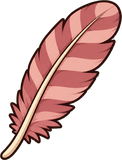
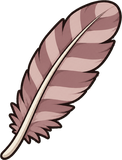
feat(ftb): feathers-only pickup burst from the lower hitbox, half-saturation feathers, wider vertical spread

Changed region(s): [[0.1967, 0.0, 0.9836, 0.875], [0.0984, 0.4375, 0.3197, 0.8438]]

diff --git a/games/find_the_bird/src/scenes/pickupParticles.ts b/games/find_the_bird/src/scenes/pickupParticles.ts
@@ -143,7 +143,7 @@ function featherDrift(scene: Phaser.Scene, px: number, py: number): Runner {
   const parts = Array.from({ length: 21 }, (_, i) => {
     const key = keys.length ? keys[i % keys.length] : 'pickup-feather';
     return {
-      ox: (r() * 220 - 110) * K, delay: r() * 0.2, sway: 1.5 + r() * 1.5, ph: r() * 6, oy: (r() * 50 - 40) * K,
+      ox: (r() * 220 - 110) * K, delay: r() * 0.25, sway: 1.5 + r() * 1.5, ph: r() * 6, oy: (r() * 150 - 100) * K, lift: 80 + r() * 90, drop: 240 + r() * 180,
       img: scene.add.image(px, py, key).setScrollFactor(1).setDepth(DEPTH + (i % 2)).setAlpha(0),
     };
   });
@@ -159,7 +159,7 @@ function featherDrift(scene: Phaser.Scene, px: number, py: number): Runner {
       for (const p of parts) {
         const tt = t - p.delay;
         if (tt < 0) { p.img.setAlpha(0); continue; }
-        const y = py + p.oy - 120 * tt * K + 330 * tt * tt * K;
+        const y = py + p.oy - p.lift * tt * K + p.drop * tt * tt * K;
         const x = px + p.ox * (1 + tt * 0.8) + 26 * K * Math.sin(p.ph + tt * p.sway * 3.14);
         p.img.setPosition(x, y);
         p.img.setRotation(0.5 * Math.sin(p.ph + tt * p.sway * 3.14));
@@ -215,5 +215,7 @@ export function playPickupParticles(scene: Phaser.Scene, kind: PickupFx, x: numb
 }
 
 export function pickRandomPickupFx(): PickupFx {
-  return PICKUP_FX_KINDS[Math.floor(Math.random() * PICKUP_FX_KINDS.length)];
+  // Batu 2026-09-16 device review: feathers only. The other kinds stay
+  // reachable from Settings > Debug.
+  return 'feathers';
 }

diff --git a/games/find_the_bird/src/scenes/GameScene.ts b/games/find_the_bird/src/scenes/GameScene.ts
@@ -3149,7 +3149,9 @@ export class GameScene extends Phaser.Scene {
     // pickup; Settings > Debug can pin one in harness builds).
     if (!prefersReducedMotion() && DEBUG_OVERRIDES.pickupFx !== 'none') {
       const kind = DEBUG_OVERRIDES.pickupFx === 'random' ? pickRandomPickupFx() : DEBUG_OVERRIDES.pickupFx;
-      playPickupParticles(this, kind, this.imgOffsetX + dog.x * this.imgScale, this.imgOffsetY + dog.y * this.imgScale);
+      // Spawn toward the bottom of the hitbox (r = 57 level px) so the
+      // feathers read as shed from the bird's body, not its head.
+      playPickupParticles(this, kind, this.imgOffsetX + dog.x * this.imgScale, this.imgOffsetY + (dog.y + 57 * 0.8) * this.imgScale);
     }
     const startScaleX = image.scaleX;
     const startScaleY = image.scaleY;
